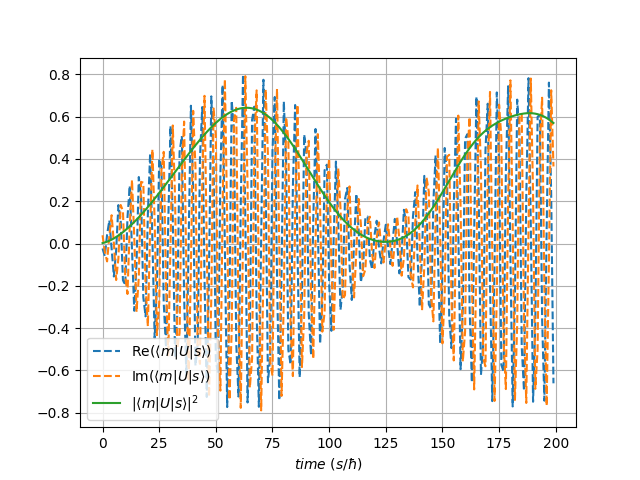
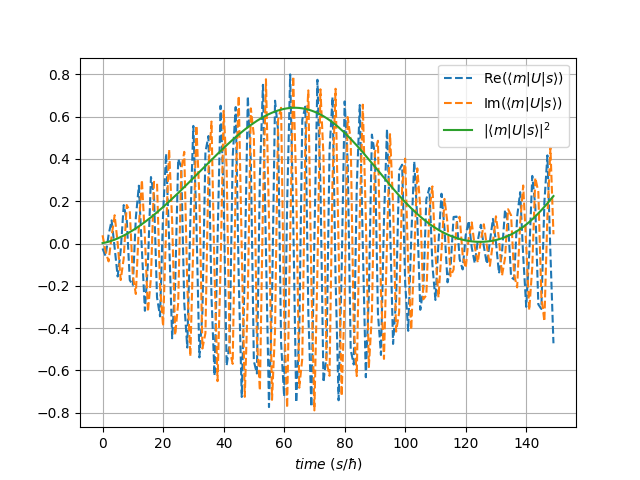
scripts update

diff --git a/main.py b/main.py
@@ -13,7 +13,7 @@ if __name__ == "__main__":
     # goptimise_optimum_gammaNs.optimise()
 
     # p1_eigenstate_amplitudes_against_gammaN.run() 
-     p2_marked_state_probability_against_time.run()
+    p2_marked_state_probability_against_time.run()
     # p2_d_marked_state_probability_against_time.run()
     # p3_min_gap_against_N.run()
     # p4_time_against_N.run()
@@ -23,26 +23,26 @@ if __name__ == "__main__":
     # from qualk.config import update_parameter
 
     # update_parameter(('end_time', 200), 'p2')
+    
+    # from qualk.config import update_alpha
 
-    from qualk.config import update_alpha
+    # update_alpha(1.1)
+    # p2_marked_state_probability_against_time.run()
+    # # p4_time_against_N.run()
 
-    update_alpha(1.1)
-    p2_marked_state_probability_against_time.run()
-    # p4_time_against_N.run()
+    # update_alpha(1.2)
+    # p2_marked_state_probability_against_time.run()
+    # # p4_time_against_N.run()
 
-    update_alpha(1.2)
-    p2_marked_state_probability_against_time.run()
-    # p4_time_against_N.run()
+    # update_alpha(1.3)
+    # p2_marked_state_probability_against_time.run()
+    # # p4_time_against_N.run()
 
-    update_alpha(1.3)
-    p2_marked_state_probability_against_time.run()
-    # p4_time_against_N.run()
+    # update_alpha(1.4)
+    # p2_marked_state_probability_against_time.run()
 
-    update_alpha(1.4)
-    p2_marked_state_probability_against_time.run()
+    # update_alpha(1.5)
+    # p2_marked_state_probability_against_time.run()
 
-    update_alpha(1.5)
-    p2_marked_state_probability_against_time.run()
-
-    update_alpha(1.6)
-    p2_marked_state_probability_against_time.run()
+    # update_alpha(1.6)
+    # p2_marked_state_probability_against_time.run()

diff --git a/scripts.py b/scripts.py
@@ -56,7 +56,7 @@ def marked_state_amplitudes_against_time_with_noise(dimensions, chain):
 
 def p2_various_alpha(dimensions, chain):
     index = 'times'
-    alphas = [1.0, 1.1, 1.2, 1.3, 1.4, 1.5, 1.6, 1.7, 1.8, 1.9, 2.0]
+    alphas = [1, 1.1, 1.2, 1.3, 1.4, 1.5, 1.6]
     alpha_files = [f'data/p2_{chain}/alpha={alpha}_lat_dim=1_dim={dimensions}.csv' 
                     for alpha in alphas]
     data = [pd.read_csv(alpha_file, index_col=index) for alpha_file in alpha_files] 
@@ -75,7 +75,7 @@ def p2_various_alpha(dimensions, chain):
 
 def p4_various_alpha(chain):
     index = 'dimensions'
-    alphas = [1.0, 1.1, 1.2, 1.3, 1.4, 1.5, 1.6, 1.7, 1.8, 1.9, 2.0]
+    alphas = [1, 1.1, 1.2, 1.3, 1.4]
     alpha_files = [f'data/p4_{chain}/alpha={alpha}_lat_dim=1.csv' 
                     for alpha in alphas]
     data = [pd.read_csv(alpha_file, index_col=index) for alpha_file in alpha_files] 
@@ -94,5 +94,6 @@ def p4_various_alpha(chain):
 
 if __name__ == "__main__":
     # open_ring_chord_decoherence(8)
-    marked_state_amplitudes_against_time_with_noise(256, 'chord')
+    # marked_state_amplitudes_against_time_with_noise(256, 'chord')
+    p2_various_alpha(1024, 'ring')
 

diff --git a/qualk/config.py b/qualk/config.py
@@ -33,7 +33,7 @@ chain_form = {
 }
 
 lat_d = 1
-alpha = 1
+alpha = 1.4
 
 parameters = {
     'show_plots'                : False,
@@ -56,7 +56,7 @@ parameters = {
     },
 
     'p2'                        : {
-        'end_time'                  : 160,
+        'end_time'                  : 150,
         'time_step'                 : 1,
         'optimum_gammaN'            : optimum_gammaN[lat_d][alpha],
         'save_plots'                : True,
